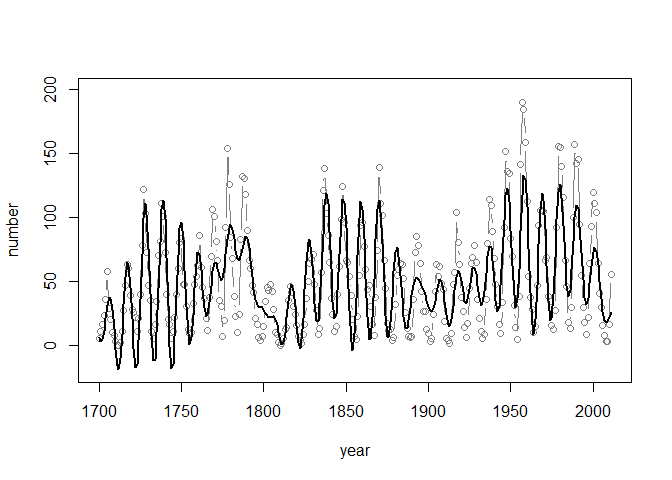
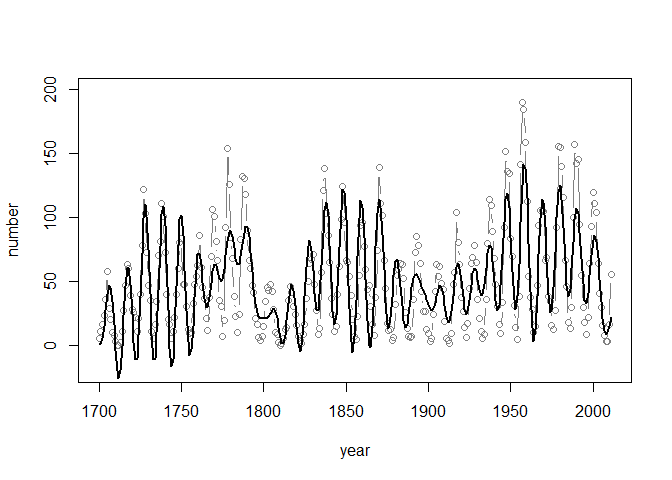
fixed number of periods to include in final fit for sunspots data

diff --git a/README.md b/README.md
@@ -162,7 +162,7 @@ perReg$model
     x ~ 0 + cos(2 * pi/25 * t) + sin(2 * pi/25 * t) + cos(2 * pi/10 * 
         t) + sin(2 * pi/10 * t) + cos(2 * pi/16 * t) + sin(2 * pi/16 * 
         t) + cos(2 * pi/75 * t) + sin(2 * pi/75 * t)
-    <environment: 0x0000020193f3c538>
+    <environment: 0x000001f937138538>
 
 ``` r
 # ... y la tabla de datos
@@ -308,7 +308,7 @@ búsqueda de periodos en el descenso cíclico, es decir considerando si se
 centró la serie y si se consideró tendencia.
 
 ``` r
-p <- dc$harmonics$Period[1:10]
+p <- dc$harmonics$Period[1:12]
 rp <- periodicRegModel(x = sunspots$number, t = sunspots$year, periods = p, 
                        center.x = TRUE, trend = TRUE)
 ```
@@ -326,8 +326,10 @@ rp$model
         t) + sin(2 * pi/53 * t) + cos(2 * pi/65 * t) + sin(2 * pi/65 * 
         t) + cos(2 * pi/13 * t) + sin(2 * pi/13 * t) + cos(2 * pi/42 * 
         t) + sin(2 * pi/42 * t) + cos(2 * pi/156 * t) + sin(2 * pi/156 * 
-        t) + cos(2 * pi/28 * t) + sin(2 * pi/28 * t)
-    <environment: 0x0000020194f61320>
+        t) + cos(2 * pi/28 * t) + sin(2 * pi/28 * t) + cos(2 * pi/21 * 
+        t) + sin(2 * pi/21 * t) + cos(2 * pi/14 * t) + sin(2 * pi/14 * 
+        t)
+    <environment: 0x000001f938162a18>
 
 El ajuste con `lm()` y los componentes armónicos quedarían de la
 siguiente manera
@@ -342,39 +344,43 @@ summary(fit)
     lm(formula = rp$model, data = rp$data)
 
     Residuals:
-        Min      1Q  Median      3Q     Max 
-    -57.857 -14.877  -1.339  15.254  72.955 
+       Min     1Q Median     3Q    Max 
+    -52.91 -15.49  -0.64  14.49  73.22 
 
     Coefficients:
                           Estimate Std. Error t value Pr(>|t|)    
-    (Intercept)         -111.72299   31.64547  -3.530 0.000482 ***
-    t                      0.05999    0.01704   3.520 0.000500 ***
-    cos(2 * pi/11 * t)    25.63960    1.88624  13.593  < 2e-16 ***
-    sin(2 * pi/11 * t)     9.51894    1.88413   5.052 7.74e-07 ***
-    cos(2 * pi/10 * t)    15.59843    1.86422   8.367 2.52e-15 ***
-    sin(2 * pi/10 * t)   -15.25330    1.87215  -8.147 1.12e-14 ***
-    cos(2 * pi/103 * t)   16.19015    1.89412   8.548 7.30e-16 ***
-    sin(2 * pi/103 * t)    6.94453    1.97180   3.522 0.000497 ***
-    cos(2 * pi/12 * t)    12.38559    1.87889   6.592 2.05e-10 ***
-    sin(2 * pi/12 * t)    -0.38823    1.87889  -0.207 0.836446    
-    cos(2 * pi/53 * t)    -7.29124    1.94501  -3.749 0.000215 ***
-    sin(2 * pi/53 * t)    -8.45481    1.90978  -4.427 1.35e-05 ***
-    cos(2 * pi/65 * t)    -9.56448    1.94631  -4.914 1.49e-06 ***
-    sin(2 * pi/65 * t)     2.16569    1.89866   1.141 0.254961    
-    cos(2 * pi/13 * t)     0.29864    1.86852   0.160 0.873129    
-    sin(2 * pi/13 * t)    -7.01440    1.86793  -3.755 0.000209 ***
-    cos(2 * pi/42 * t)    -6.66573    1.93157  -3.451 0.000642 ***
-    sin(2 * pi/42 * t)    -1.08391    1.95178  -0.555 0.579088    
-    cos(2 * pi/156 * t)   -7.16580    1.95039  -3.674 0.000284 ***
-    sin(2 * pi/156 * t)   -1.64598    1.98945  -0.827 0.408716    
-    cos(2 * pi/28 * t)    -0.65469    1.88795  -0.347 0.729014    
-    sin(2 * pi/28 * t)    -5.79627    1.86340  -3.111 0.002053 ** 
+    (Intercept)         -117.46265   31.11575  -3.775 0.000195 ***
+    t                      0.06310    0.01675   3.766 0.000201 ***
+    cos(2 * pi/11 * t)    25.41778    1.85234  13.722  < 2e-16 ***
+    sin(2 * pi/11 * t)     9.42312    1.85100   5.091 6.47e-07 ***
+    cos(2 * pi/10 * t)    15.65667    1.83016   8.555 7.29e-16 ***
+    sin(2 * pi/10 * t)   -15.26246    1.83783  -8.305 4.04e-15 ***
+    cos(2 * pi/103 * t)   16.13681    1.86013   8.675 3.17e-16 ***
+    sin(2 * pi/103 * t)    6.84133    1.93567   3.534 0.000477 ***
+    cos(2 * pi/12 * t)    12.71049    1.84906   6.874 3.91e-11 ***
+    sin(2 * pi/12 * t)    -0.39791    1.84906  -0.215 0.829769    
+    cos(2 * pi/53 * t)    -7.19778    1.90993  -3.769 0.000199 ***
+    sin(2 * pi/53 * t)    -8.55279    1.87478  -4.562 7.53e-06 ***
+    cos(2 * pi/65 * t)    -9.44374    1.91117  -4.941 1.32e-06 ***
+    sin(2 * pi/65 * t)     2.07071    1.86403   1.111 0.267553    
+    cos(2 * pi/13 * t)     0.84981    1.85662   0.458 0.647500    
+    sin(2 * pi/13 * t)    -6.60023    1.85243  -3.563 0.000429 ***
+    cos(2 * pi/42 * t)    -6.26378    1.89940  -3.298 0.001098 ** 
+    sin(2 * pi/42 * t)    -1.14878    1.91721  -0.599 0.549517    
+    cos(2 * pi/156 * t)   -7.03273    1.91511  -3.672 0.000287 ***
+    sin(2 * pi/156 * t)   -1.57338    1.95335  -0.805 0.421214    
+    cos(2 * pi/28 * t)    -0.28962    1.85854  -0.156 0.876275    
+    sin(2 * pi/28 * t)    -5.67616    1.83338  -3.096 0.002156 ** 
+    cos(2 * pi/21 * t)     2.35251    1.83750   1.280 0.201484    
+    sin(2 * pi/21 * t)     4.34345    1.84010   2.360 0.018924 *  
+    cos(2 * pi/14 * t)     4.17030    1.84959   2.255 0.024907 *  
+    sin(2 * pi/14 * t)    -2.71578    1.86363  -1.457 0.146144    
     ---
     Signif. codes:  0 '***' 0.001 '**' 0.01 '*' 0.05 '.' 0.1 ' ' 1
 
-    Residual standard error: 23.25 on 290 degrees of freedom
-    Multiple R-squared:  0.6909,    Adjusted R-squared:  0.6685 
-    F-statistic: 30.87 on 21 and 290 DF,  p-value: < 2.2e-16
+    Residual standard error: 22.82 on 286 degrees of freedom
+    Multiple R-squared:  0.7063,    Adjusted R-squared:  0.6807 
+    F-statistic: 27.52 on 25 and 286 DF,  p-value: < 2.2e-16
 
 ``` r
 harmonics(fit)
@@ -382,20 +388,22 @@ harmonics(fit)
 
     $linear_trend
             alpha         betha 
-    -111.72298551    0.05998914 
+    -117.46265192    0.06309816 
 
     $cyclic_components
        Period Amplitude       Phase          Lag
-    1      11 27.349572  0.35548710   0.62235283
-    2      10 21.816833 -0.77421162  -1.23219607
-    3     103 17.616679  0.40519934   6.64241628
-    4      12 12.391677 -0.03133493  -0.05984531
-    5      53 11.164494 -2.28243270 -19.25280369
-    6      65  9.806605  2.91891729  30.19640751
-    9     156  7.352406 -2.91580975 -72.39422336
-    7      13  7.020756 -1.52824695  -3.16196472
-    8      42  6.753283 -2.98039437 -19.92246885
-    10     28  5.833121 -1.68326968  -7.50121931
+    1      11 27.108280  0.35502153   0.62153775
+    2      10 21.864901 -0.77264900  -1.22970908
+    3     103 17.527136  0.40098792   6.57337863
+    4      12 12.716718 -0.03129527  -0.05976957
+    5      53 11.178469 -2.27037658 -19.15110774
+    6      65  9.668091  2.92574045  30.26699361
+    9     156  7.206577 -2.92149482 -72.53537340
+    7      13  6.654710 -1.44274576  -2.98506156
+    8      42  6.368254 -2.96020735 -19.78752858
+    10     28  5.683542 -1.62177612  -7.22718321
+    12     14  4.976636 -0.57723171  -1.28616993
+    11     21  4.939621  1.07440787   3.59094380
 
 #### Figura final
 
